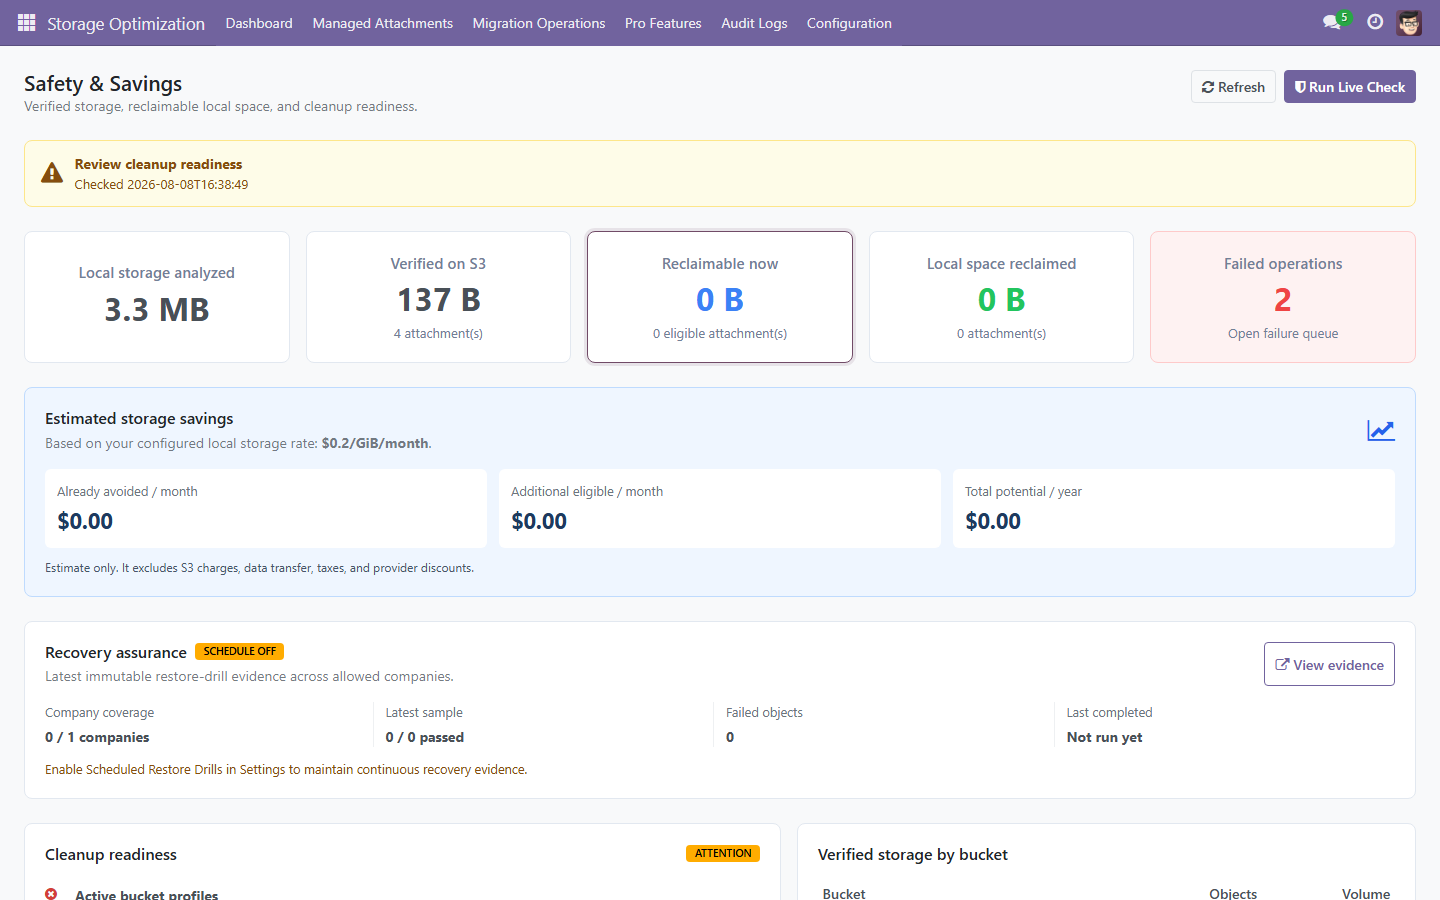
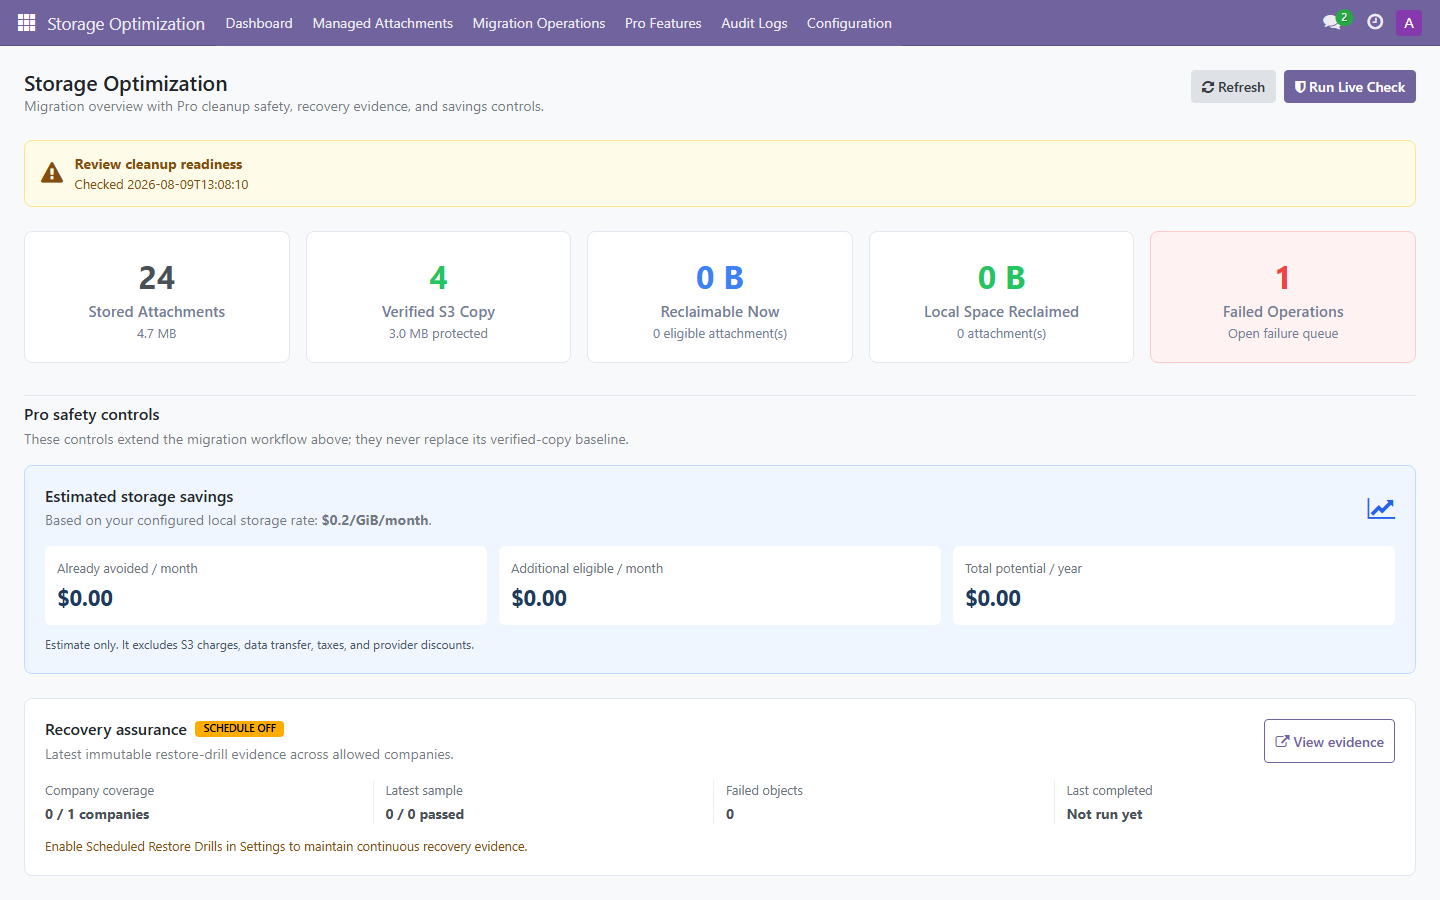
Align Pro dashboard with Free edition

diff --git a/attachment_optimizer_pro/static/description/index.html b/attachment_optimizer_pro/static/description/index.html
@@ -96,6 +96,6 @@ For subsequent modules, update content inside sections only. Do not alter sectio
     </div>
 
     <!-- FOOTER -->
-    <div style="border:1px solid #e2e8f0; border-radius:16px; padding:32px 24px; margin:40px 0 16px; text-align:center;"><div style="font-size:14px; font-weight:700; color:#1e293b; text-transform:uppercase;">Attachment Optimizer Pro</div><p style="font-size:13px; color:#64748b; line-height:1.6;">Automated, verified S3-compatible attachment lifecycle management for Odoo.</p><div style="display:inline-block; border:2px solid #4f46e5; color:#4f46e5; font-weight:700; font-size:13px; padding:10px 28px; border-radius:8px;">US$49 · One-Time · No Subscription</div><p style="font-size:11px; color:#94a3b8; margin:20px 0 0;">Version 17.0.1.0.18 · Built and maintained by FoxPink</p></div>
+    <div style="border:1px solid #e2e8f0; border-radius:16px; padding:32px 24px; margin:40px 0 16px; text-align:center;"><div style="font-size:14px; font-weight:700; color:#1e293b; text-transform:uppercase;">Attachment Optimizer Pro</div><p style="font-size:13px; color:#64748b; line-height:1.6;">Automated, verified S3-compatible attachment lifecycle management for Odoo.</p><div style="display:inline-block; border:2px solid #4f46e5; color:#4f46e5; font-weight:700; font-size:13px; padding:10px 28px; border-radius:8px;">US$49 · One-Time · No Subscription</div><p style="font-size:11px; color:#94a3b8; margin:20px 0 0;">Version 17.0.1.0.19 · Built and maintained by FoxPink</p></div>
   </div>
 </section>

diff --git a/attachment_optimizer_pro/static/src/components/pro_dashboard/pro_dashboard.scss b/attachment_optimizer_pro/static/src/components/pro_dashboard/pro_dashboard.scss
@@ -70,6 +70,7 @@ html .o_web_client .o_action_manager .o_pro_safety_dashboard {
 .o_pro_kpi_card small,
 .o_pro_kpi_label { color: #718096; }
 .o_pro_kpi_label { font-size: .95rem; font-weight: 600; }
+.o_pro_value_success { color: #22c55e; }
 .o_pro_kpi_action { cursor: pointer; transition: border-color .15s ease, box-shadow .15s ease; }
 .o_pro_kpi_action:hover,
 .o_pro_kpi_action:focus-visible { border-color: var(--o-brand-primary, #714b67); box-shadow: 0 0 0 3px rgba(113, 75, 103, .12); outline: 0; }
@@ -77,6 +78,17 @@ html .o_web_client .o_action_manager .o_pro_safety_dashboard {
 .o_pro_kpi_success strong { color: #22c55e; }
 .o_pro_kpi_danger { background: #fef2f2; border-color: #fecaca; }
 .o_pro_kpi_danger strong { color: #ef4444; }
+
+.o_pro_section_intro {
+    display: flex;
+    align-items: baseline;
+    justify-content: space-between;
+    gap: 16px;
+    margin: 32px 0 16px;
+    padding-top: 8px;
+    border-top: 1px solid #e2e8f0;
+}
+.o_pro_section_intro h3 { margin: 0 0 4px; font-size: 1rem; font-weight: 600; }
 
 .o_pro_savings_panel {
     margin-bottom: 24px;

diff --git a/attachment_optimizer_pro/__manifest__.py b/attachment_optimizer_pro/__manifest__.py
@@ -1,6 +1,6 @@
 {
     "name": "Attachment Optimizer Pro",
-    "version": "17.0.1.0.18",
+    "version": "17.0.1.0.19",
     "category": "Storage",
     "summary": "Automation, cleanup, routing and lifecycle for S3-compatible attachment storage.",
     "description": """

diff --git a/README.md b/README.md
@@ -8,7 +8,7 @@ Only update product content, version, links, compatibility status, screenshots, 
 
 ![Attachment Optimizer Pro](attachment_optimizer_pro/static/description/preview.png)
 
-**Version:** 17.0.1.0.18 -- **License:** OPL-1 -- **Publisher:** FoxPink -- Maintained for **Odoo 17.0**
+**Version:** 17.0.1.0.19 -- **License:** OPL-1 -- **Publisher:** FoxPink -- Maintained for **Odoo 17.0**
 
 ---
 
